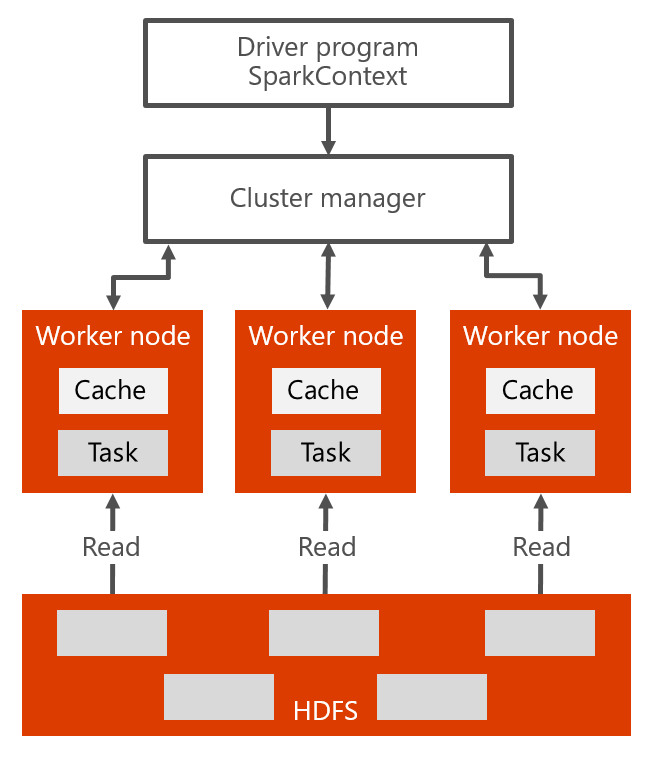
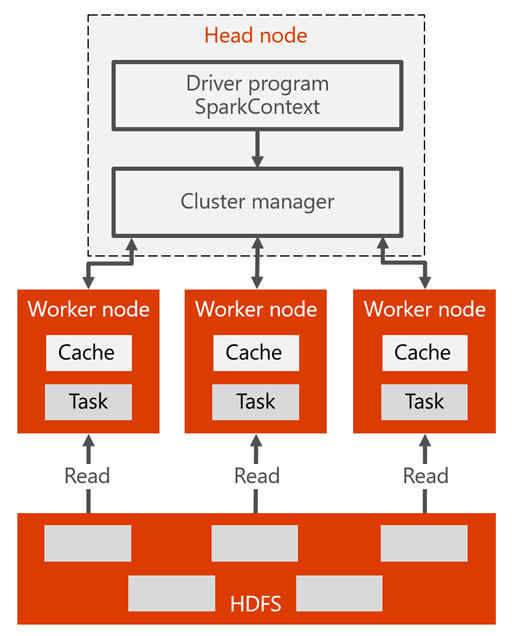
Added clarification and updated images

diff --git a/hdinsight-spark-with-hdinsight.md b/hdinsight-spark-with-hdinsight.md
@@ -10,7 +10,7 @@ keywords: spark,batch processing
 ---
 # Use Spark with HDInsight
 
-[Spark on HDInsight](https://docs.microsoft.com/azure/hdinsight/hdinsight-apache-spark-overview) provides us with a unified framework for running large-scale data analytics applications that capitalizes on an in-memory compute engine at its core, for high performance querying on big data. It leverages a parallel data processing framework that persists data in-memory and disk if needed. This allows Spark to deliver both 100x faster speed and a common execution model to various tasks like extract, transform, load (otherwise known as ETL), batch, and interactive queries on data in Hadoop distributed file system (or, HDFS). One of the advantages Spark's unified framework gives us, is the ability to use the same code for both batch processing and realtime stream processing.
+[Spark on HDInsight](hdinsight-apache-spark-overview.md) provides us with a unified framework for running large-scale data analytics applications that capitalizes on an in-memory compute engine at its core, for high performance querying on big data. It leverages a parallel data processing framework that persists data in-memory and disk if needed. This allows Spark to deliver both 100x faster speed and a common execution model to various tasks like extract, transform, load (otherwise known as ETL), batch, and interactive queries on data in Hadoop distributed file system (or, HDFS). One of the advantages Spark's unified framework gives us, is the ability to use the same code for both batch processing and realtime stream processing.
 
 ## Spark cluster architecture
 
@@ -18,7 +18,7 @@ Here is the Spark cluster architecture and how it works:
 
 ![Spark cluster architecture](./media/hdinsight-spark-with-hdinsight/spark-architecture.png)
 
-In the head node, we have the Spark master that manages the number of applications, the apps are mapped to the Spark driver. Every app is managed by Spark master in various ways. Spark can be deployed on top of Mesos, Yarn, or the Spark cluster manager, which allocates worker node resources to an application. The resources in the cluster are managed by Spark master in the HDInsight. That means the Spark master has knowledge of which resources, like memory, are occupied or available on the worker node.
+In the head node, we have the Spark master that manages the number of applications, the apps are mapped to the Spark driver. Every app is managed by Spark master in various ways. Spark can be deployed on top of Mesos, YARN, or the Spark cluster manager, which allocates worker node resources to an application. In HDInsight, Spark runs using the YARN cluster manager. The resources in the cluster are managed by Spark master in HDInsight. That means the Spark master has knowledge of which resources, like memory, are occupied or available on the worker node.
 
 The driver runs the user's main function and executes the various parallel operations on the worker nodes. Then, the driver collects the results of the operations. The worker nodes read and write data from and to the Hadoop distributed file system (HDFS). The worker nodes also cache transformed data in-memory as Resiliant Distributed Datasets (RDDs).
 
@@ -32,8 +32,6 @@ Once the app is created in the Spark master, the resources are allocated to the 
 
 The Spark driver connects to the Spark master and is responsible for converting an application to a directed graph (DAG) of individual tasks that get executed within an executor process on the worker nodes. Each application gets its own executor processes, which stay up for the duration of the whole application and run tasks in multiple threads.
 
-
-Submit [remote batch jobs](https://docs.microsoft.com/azure/hdinsight/hdinsight-apache-spark-livy-rest-interface) to an HDInsight Spark cluster.
 
 ## Batch processing in Spark
 
@@ -53,7 +51,7 @@ What makes Spark fast? How is the architecture of Apache Spark different than tr
 
 Spark provides primitives for in-memory cluster computing. A Spark job can load and cache data into memory and query it repeatedly, much more quickly than disk-based systems. Spark also integrates into the Scala programming language to let you manipulate distributed data sets like local collections. There's no need to structure everything as map and reduce operations.
 
-Data sharing between operations is faster, since data is in-memory. Hadoop shares data through HDFS, an expensive option. It also maintains three replicas. Spark stores data in-memory without any replication.
+Data sharing between operations is faster, since data is in-memory. Hadoop shares data through HDFS, an expensive option. It also maintains three replicas.
 
 ![Spark: a unified framework](./media/hdinsight-spark-with-hdinsight/spark-unified.png)
 
@@ -150,13 +148,13 @@ Notice that in the block of sample code, there are 4 comments:
 
 ![Accumulators](./media/hdinsight-spark-with-hdinsight/accumulators.png)
 
-Accumulators are variables that can only be added to through an associative operation. They are used to implement counters and sums efficiently in parallel. Spark natively supports accumulators of numeric value types and standard mutable collections. It is possible for programmers to extend for new types. One thing of note, only the driver program can read the value of an accumulator; the tasks cannot.
+Accumulators are variables that can only be added to through an associative operation. They are used to implement counters and sums efficiently in parallel. Spark natively supports accumulators of numeric value types and standard mutable collections. It is possible for programmers to extend for new types. One thing of note, only the driver program can read the value of an accumulator; the tasks cannot. Tasks can only write to the accumulator.
 
 
 ## See also
 
-* Some overview link
-
-### Scenarios
-
-
+* [Spark SQL with HDInsight](hdinsight-spark-sql-with-hdinsight.md)
+* [Spark Scenarios - Build high-speed scalable data pipelines](hdinsight-spark-scenarios.md)
+* [Optimizing and configuring Spark Jobs for performance](hdinsight-spark-perf.md)
+* [Configuring Spark settings](hdinsight-spark-settings.md)
+* Submit [remote batch jobs](hdinsight-apache-spark-livy-rest-interface.md) to an HDInsight Spark cluster.
